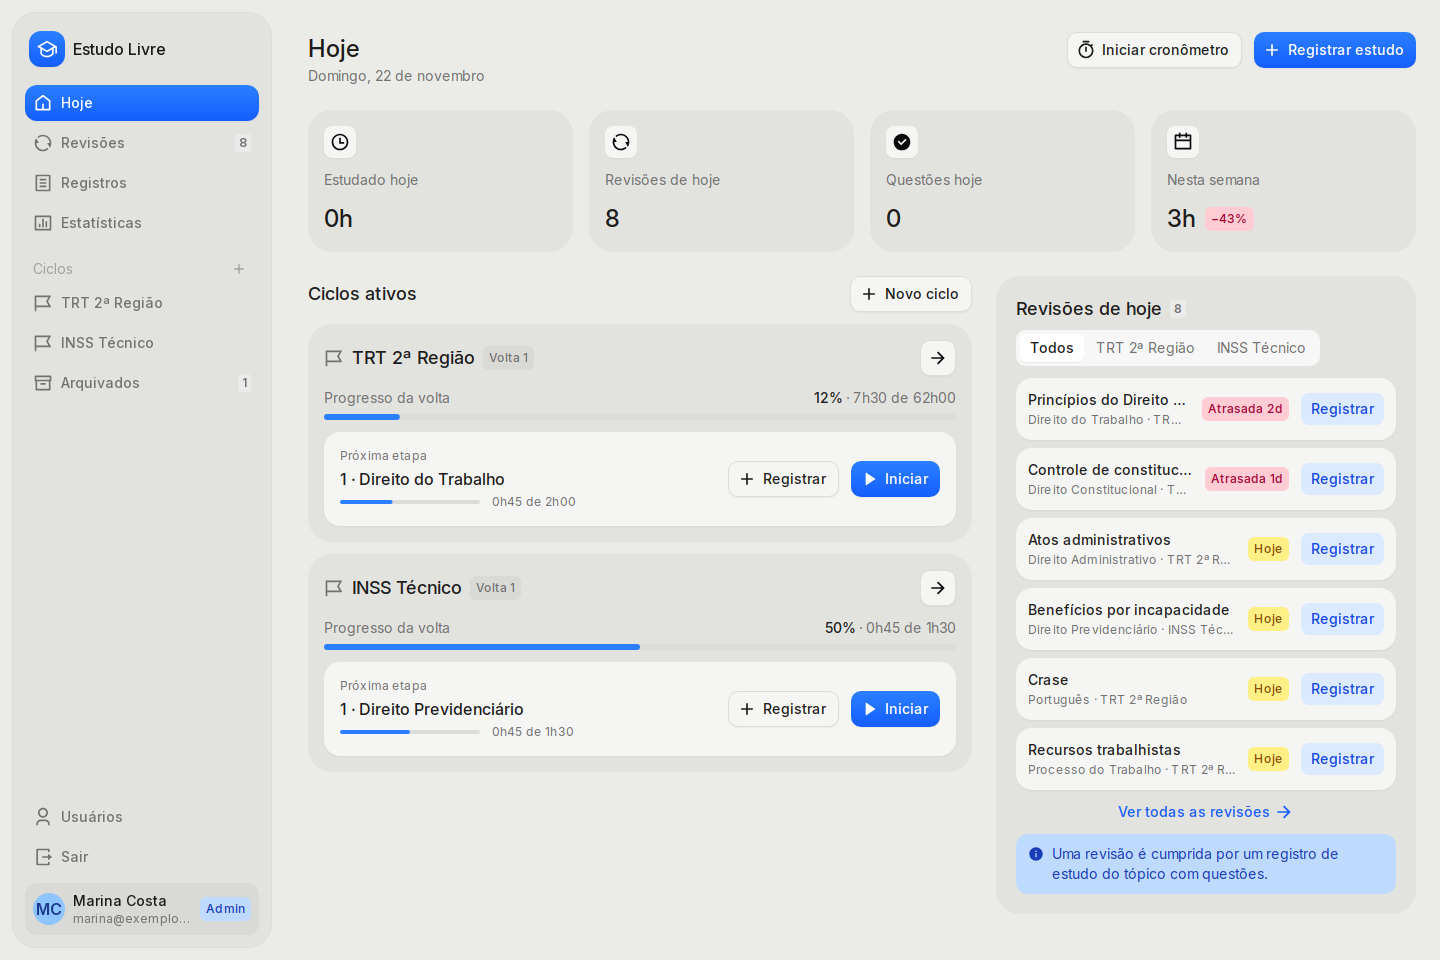
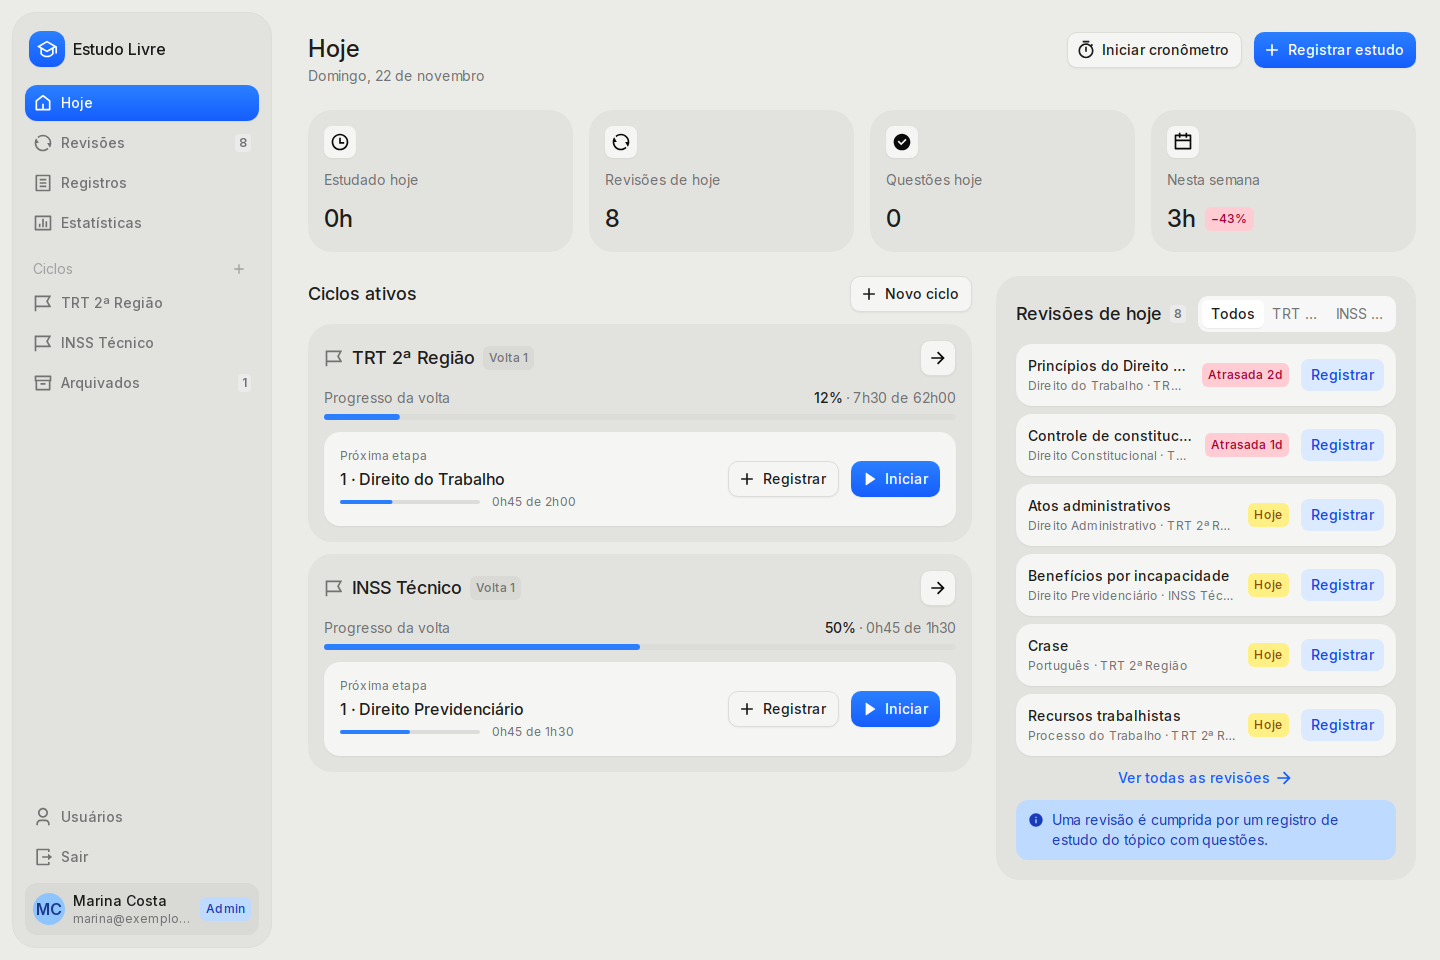
docs(revisoes): verificação, telas e visita da última execução

Changed region(s): [[0.6875, 0.3125, 0.9688, 0.9375]]

diff --git a/.specs/features/tela-de-revisoes/verification.md b/.specs/features/tela-de-revisoes/verification.md
@@ -1,0 +1,69 @@
+# Tela de revisões verification
+
+**Verdict**: PASS (achados fechados em 99f53e2; a divergência de tela, em ce1e286)
+**Proofs**: `proofs.md` at 4d6aa7e
+**Verifier**: independent sub-agent (author != verifier)
+
+## Checks
+
+| Check | Test | Holds |
+| --- | --- | --- |
+| C1 | browser captures/hoje.running.png | yes - judged by screens |
+| C2 | `lista-de-revisoes.test.ts` `conta como vencida a Revisão com próxima data hoje ou antes` | yes - -2/0/+1 com atraso exato; Ciclo ativo coberto por C41 |
+| C3 | walk - indicador na Hoje com dois Ciclos | yes - a visita registrada (`**Walked:**`, usuária Marina) cobre o estado; o valor vem de `totalVencidasGeral`, provado em C8; não refiz a visita |
+| C4 | walk - Counter do cartão ao escolher um Ciclo | yes - mesma ressalva: visita registrada; `totalVencidas` do filtro provado em C8/C30 |
+| C5 | walk - chips Atrasada 2d / Hoje no cartão | yes - visita registrada; as cores e textos do chip também estão em `formato.test.ts` `atrasada mostra os dias...` |
+| C6 | `lista-de-revisoes.test.ts` `ordena do vencimento mais antigo ao mais novo, com desempate pelo nome do Tópico` | yes - dias distintos, empate Delta/Zebra e hoje por último |
+| C7 | `lista-de-revisoes.test.ts` `o limite devolve só as mais atrasadas e mantém o total completo` | no - prova o corte com `limiteVencidas: 2`, não o 6 do cartão; `LIMITE_DO_CARTAO = 6` está em `src/app/(app)/page.tsx` sem teste, só a visita da C5 o toca |
+| C8 | `lista-de-revisoes.test.ts` `o filtro por Ciclo lista e conta só as Revisões do Ciclo` | yes - lista, `totalVencidas` e `totalVencidasGeral` com dois Ciclos |
+| C9 | `lista-de-revisoes.test.ts` `sem filtro lista as de todos os Ciclos ativos` | yes - dois Ciclos, ordem e `filtro` nulo |
+| C10 | walk - Ver todas as revisões com o mesmo filtro | yes - visita registrada; o href `/revisoes?ciclo=${filtro}` é lido em `cartao-de-revisoes.tsx` |
+| C11 | walk - aviso no cartão | yes - visita registrada; texto em constante única `AVISO_DA_REVISAO` |
+| C12 | walk - Ciclo sem vencidas no cartão | yes - visita registrada (usuária `vazia`); a condição `vencidas.length > 0` está no componente |
+| C13 | browser captures/pwa-hoje.running.png | yes - judged by screens |
+| C14 | walk - Registrar abre o modal com Matéria, Tópico e data | yes - visita registrada; sem teste automatizado da pré-seleção |
+| C15 | `cronometro.test.ts` `inicia guardando o Tópico` | yes - `topicoId` exato e Matéria |
+| C16 | `cronometro.test.ts` `parar devolve o Tópico para o registro` | yes - `toEqual` com Matéria, Tópico, duração 25 e `passouDoLimite` |
+| C17 | walk - ▶ inicia e Parar e registrar abre o modal | yes - visita registrada; a parte de dados é C16 |
+| C18 | `cronometro.test.ts` `recusa o início com Cronômetro existente, com a mensagem` | yes - ativo e pausado, mensagem exata, Cronômetro original intacto (o botão habilitado é de tela, sem check) |
+| C19 | `cronometro.test.ts` `descartar apaga sem criar Registro` | yes - Cronômetro nulo e tabela de Registros vazia |
+| C20 | `cronometro.test.ts` `excluir o Tópico mantém o Cronômetro sem Tópico` | yes - mantém Matéria e segundos, `topicoId` nulo, e o parar também devolve nulo |
+| C21 | `lista-de-revisoes.test.ts` `um Registro com questões tira a Revisão de Vencidas` | yes - verifica antes presente e depois vazia, lista e contagem |
+| C22 | `lista-de-revisoes.test.ts` `um Registro sem questões mantém a Revisão em Vencidas` | yes - Teoria sem questões mantém na lista e na contagem |
+| C23 | browser captures/revisoes.running.png | yes - judged by screens |
+| C24 | walk - subtítulo com totais e filtro | yes - visita registrada; o singular "1 vencida" do código foge de "N vencidas" (ver achado) |
+| C25 | walk - linha de Vencidas com as oito informações | yes - visita registrada |
+| C26 | walk - linha de Próximos 7 dias com chip cinza e sem ▶ | yes - visita registrada |
+| C27 | `lista-de-revisoes.test.ts` `traz última nota e acerto do Registro mais recente com nota` | yes - três Registros, o mais novo sem nota é ignorado, "Errei" e 40 exatos |
+| C28 | `lista-de-revisoes.test.ts` `traz nulos sem Registro com nota` | yes - nulos em vencida e em próxima, com Registro sem nota |
+| C29 | `lista-de-revisoes.test.ts` `ordena do vencimento mais antigo ao mais novo, com desempate pelo nome do Tópico` | no - a ordem só é afirmada em `vencidas`; `proximas` nunca tem dois itens no mesmo dia nem fora de ordem de inserção |
+| C30 | `lista-de-revisoes.test.ts` `o filtro vale nas duas seções e nos totais` | yes - um item por seção do Ciclo escolhido e dois totais exatos |
+| C31 | walk - aviso na página | yes - visita registrada; mesmo componente `AvisoDaRevisao` |
+| C32 | `lista-de-revisoes.test.ts` `um Ciclo desconhecido, de outro Usuário ou arquivado vale Todos` | yes - cinco entradas (inexistente, outro Usuário, arquivado, vazio, nulo) com `filtro` nulo e lista de Todos |
+| C33 | walk - Ciclo sem Revisões na página | yes - visita registrada (usuária `vazia`) |
+| C34 | `lista-de-revisoes.test.ts` `sem Ciclo ativo não há Revisão` | yes - `toEqual` do objeto inteiro e contagem zero |
+| C35 | walk - 390px sem rolagem horizontal | yes - visita registrada; sem medição automatizada |
+| C36 | browser captures/revisoes.running.png | yes - judged by screens |
+| C37 | walk - Counter no item da Sidebar | yes - visita registrada; o valor é `contarRevisoesVencidas`, provado em C2/C41 |
+| C38 | walk - item sem Counter | yes - visita registrada (usuária `vazia`) |
+| C39 | browser captures/pwa-hoje.running.png | yes - judged by screens |
+| C40 | walk - aria-current em Sidebar e aba | yes - visita registrada |
+| C41 | `lista-de-revisoes.test.ts` `as Revisões do Ciclo arquivado somem da lista e do total` | yes - vencida e próxima sumem, filtro de Ciclos e as duas contagens |
+| C42 | `lista-de-revisoes.test.ts` `reativar devolve as Revisões com as mesmas datas` | yes - `toEqual` do resultado antes e depois, mais os dias esperados |
+| C43 | `lista-de-revisoes.test.ts` `arquivar e reativar não alteram os Cartões` | yes - `select *` igual após arquivar e após reativar |
+| C44 | `lista-de-revisoes.test.ts` `reativado depois da data, a Revisão volta vencida com o atraso até hoje` | yes - atraso exato 7 e `proximas` vazia (relógio avançado, não reativação real) |
+| C45 | `lista-de-revisoes.test.ts` `Cartão sem data não aparece nem conta` | yes - lista, `proximas`, total geral e contagem |
+| C46 | `lista-de-revisoes.test.ts` `excluir o Tópico tira a Revisão` | yes - sobra só o outro Tópico, lista e contagem |
+| C47 | `lista-de-revisoes.test.ts` `classifica pelo dia de Brasília, não pelo de UTC` | yes - 23:00 e 00:30 de Brasília em lados opostos, dia e atraso exatos, e a contagem |
+| C48 | `lista-de-revisoes.test.ts` `Revisões de outro Usuário não aparecem` | yes - lista da Ana e contagem da Bia (a lista da Bia não é afirmada) |
+| C49 | `lista-de-revisoes.test.ts` `os próximos 7 dias vão de amanhã a hoje mais 7, inclusive` | yes - hoje, +1, +7 e +8 com `diasDeAtraso` exatos |
+
+## Findings
+
+| Finding | Evidence | Fix | Closed |
+| --- | --- | --- | --- |
+| C29 não prova a ordem de "Próximos 7 dias" | `tests/lista-de-revisoes.test.ts` `ordena do vencimento mais antigo...` só afirma `lista.vencidas`; nenhum teste tem duas próximas no mesmo dia ou fora da ordem de inserção, então trocar o `orderBy` das próximas não falha nada | afirmar a ordem e o desempate por nome também em `proximas` (ex.: três Tópicos em +3, +3 e +2) | 99f53e2 - C29 (o teste de ordem agora afirma `proximas` com empate) |
+| C7 não prova o limite 6 do cartão | o teste usa `limiteVencidas: 2`; `LIMITE_DO_CARTAO = 6` está em `src/app/(app)/page.tsx` e nada o testa, então mudar para 5 ou 8 passa verde | extrair a constante para o caso de uso ou testar com 7 vencidas e o limite exportado; a visita só mostra 8 vencidas com 6 linhas se o filtro for Todos | 99f53e2 - C7 (novo teste com 8 vencidas e `LIMITE_DO_CARTAO_DE_REVISOES`, que afirma 6) |
+| Subtítulo no singular fora do spec | `src/app/(app)/revisoes/page.tsx` `vencidas(n)` devolve "1 vencida"; o AC 2 e a captura fixam "N vencidas" e a seção `Differences from the source` não lista o singular | ou registrar a diferença em `Differences from the source` com Confirmed, ou usar sempre "vencidas" | 99f53e2 - o subtítulo mostra sempre "N vencidas" (C24) |
+
+Sondas descartáveis no HEAD (rodaram verdes, arquivo removido): janela de 7 dias com dia 7 às 23:30 e 00:00 de Brasília e dia 8 às 00:30 cruzando o ano; atraso cruzando o mês; 60 Revisões em dois Ciclos com limite 6 e desempate (Tópicos inseridos em ordem inversa); filtro por Ciclo ativo sem Cartões; filtro por Ciclo de outro Usuário com os totais do Usuário. Nenhuma regra quebrou. Contra as capturas: sem contradição de rótulo nem controle sem critério (as cores das notas e os cabeçalhos da tabela não têm critério, mas não contradizem nada).

diff --git a/.specs/features/tela-de-revisoes/proofs.md b/.specs/features/tela-de-revisoes/proofs.md
@@ -1,13 +1,13 @@
 # tela-de-revisoes proofs
 
-**HEAD**: f9eb84d
+**HEAD**: ce1e286
 **Tree**: clean
 **Shell**: /bin/sh
-**Result**: 46 pass, 5 fail
+**Result**: 50 pass, 1 fail
 
 | Check | Proof | Result |
 | --- | --- | --- |
-| C1 | `browser captures/hoje.running.png` | **not judged** (screens.md) |
+| C1 | `browser captures/hoje.running.png` | **diverges** (screens.md) |
 | C2 | `run unit / ✓ tests/lista-de-revisoes.test.ts > revisões vencidas > conta como vencida a Revisão com próxima da` | pass |
 | C3 | `walk - na Hoje, o indicador "Revisões de hoje" mostra o total de vencidas dos dois Ciclos e nenhum chip` | pass (Walked) |
 | C4 | `walk - ao escolher um Ciclo no cartão, o Counter passa ao número de vencidas dele` | pass (Walked) |
@@ -19,7 +19,7 @@
 | C10 | `walk - com um Ciclo escolhido no cartão, "Ver todas as revisões" abre /revisoes?ciclo=<id> com o mesmo Ciclo m` | pass (Walked) |
 | C11 | `walk - o cartão da Hoje mostra o aviso com esse texto` | pass (Walked) |
 | C12 | `walk - com um Ciclo sem vencidas escolhido, o cartão mostra "Nenhuma revisão vencida." e não mostra o link` | pass (Walked) |
-| C13 | `browser captures/pwa-hoje.running.png` | **not judged** (screens.md) |
+| C13 | `browser captures/pwa-hoje.running.png` | pass |
 | C14 | `walk - "Registrar" numa Revisão abre o modal "Registrar estudo" com a Matéria, o Tópico e a data de hoje` | pass (Walked) |
 | C15 | `run unit / ✓ tests/cronometro.test.ts > Tópico do Cronômetro > inicia guardando o Tópico` | pass |
 | C16 | `run unit / ✓ tests/cronometro.test.ts > Tópico do Cronômetro > parar devolve o Tópico para o registro` | pass |
@@ -29,7 +29,7 @@
 | C20 | `run unit / ✓ tests/cronometro.test.ts > Tópico do Cronômetro > excluir o Tópico mantém o Cronômetro sem Tópico` | pass |
 | C21 | `run unit / ✓ tests/lista-de-revisoes.test.ts > cumprir a Revisão > um Registro com questões tira a Revisão de ` | pass |
 | C22 | `run unit / ✓ tests/lista-de-revisoes.test.ts > cumprir a Revisão > um Registro sem questões mantém a Revisão e` | pass |
-| C23 | `browser captures/revisoes.running.png` | **not judged** (screens.md) |
+| C23 | `browser captures/revisoes.running.png` | pass |
 | C24 | `walk - em /revisoes o subtítulo mostra os totais e muda ao escolher um Ciclo` | pass (Walked) |
 | C25 | `walk - uma linha de Vencidas mostra as oito informações` | pass (Walked) |
 | C26 | `walk - uma linha de Próximos 7 dias tem o chip cinza e nenhum ▶` | pass (Walked) |
@@ -42,10 +42,10 @@
 | C33 | `walk - com um Ciclo sem Revisões escolhido, a página mostra "Nenhuma revisão vencida." e não mostra "Próximos ` | pass (Walked) |
 | C34 | `run unit / ✓ tests/lista-de-revisoes.test.ts > revisões vencidas > sem Ciclo ativo não há Revisão` | pass |
 | C35 | `walk - em 390px /revisoes mostra cada Revisão em linha, sem rolagem horizontal` | pass (Walked) |
-| C36 | `browser captures/revisoes.running.png` | **not judged** (screens.md) |
+| C36 | `browser captures/revisoes.running.png` | pass |
 | C37 | `walk - com Revisões vencidas, o item "Revisões" da Sidebar mostra o Counter com o total` | pass (Walked) |
 | C38 | `walk - sem Revisões vencidas, o item "Revisões" da Sidebar não mostra Counter` | pass (Walked) |
-| C39 | `browser captures/pwa-hoje.running.png` | **not judged** (screens.md) |
+| C39 | `browser captures/pwa-hoje.running.png` | pass |
 | C40 | `walk - em /revisoes o item da Sidebar e a aba têm aria-current="page"` | pass (Walked) |
 | C41 | `run unit / ✓ tests/lista-de-revisoes.test.ts > Ciclo arquivado > as Revisões do Ciclo arquivado somem da lista` | pass |
 | C42 | `run unit / ✓ tests/lista-de-revisoes.test.ts > Ciclo arquivado > reativar devolve as Revisões com as mesmas da` | pass |
@@ -66,17 +66,17 @@
 ```
 
 stderr | tests/conta.test.ts > conta e instância > com o cadastro desligado, não é possível criar conta
-2026-11-22T15:12:58.314Z WARN [Better Auth]: [better-auth] Base URL is not set. Set the baseURL option or BETTER_AUTH_URL env, or use a dynamic baseURL with allowedHosts for multi-host setups. Without it the origin is derived from the incoming request, and callbacks and redirects may not work correctly.
+2026-11-22T15:22:11.707Z WARN [Better Auth]: [better-auth] Base URL is not set. Set the baseURL option or BETTER_AUTH_URL env, or use a dynamic baseURL with allowedHosts for multi-host setups. Without it the origin is derived from the incoming request, and callbacks and redirects may not work correctly.
 
 stderr | tests/conta.test.ts > conta e instância > com o cadastro desligado, não é possível criar conta
-2026-11-22T15:12:58.400Z WARN [Better Auth]: [better-auth] Base URL is not set. Set the baseURL option or BETTER_AUTH_URL env, or use a dynamic baseURL with allowedHosts for multi-host setups. Without it the origin is derived from the incoming request, and callbacks and redirects may not work correctly.
+2026-11-22T15:22:11.793Z WARN [Better Auth]: [better-auth] Base URL is not set. Set the baseURL option or BETTER_AUTH_URL env, or use a dynamic baseURL with allowedHosts for multi-host setups. Without it the origin is derived from the incoming request, and callbacks and redirects may not work correctly.
 
 stderr | tests/conta.test.ts > conta e instância > com o cadastro desligado, o primeiro Usuário ainda pode se cadastrar
-2026-11-22T15:12:58.511Z WARN [Better Auth]: [better-auth] Base URL is not set. Set the baseURL option or BETTER_AUTH_URL env, or use a dynamic baseURL with allowedHosts for multi-host setups. Without it the origin is derived from the incoming request, and callbacks and redirects may not work correctly.
+2026-11-22T15:22:11.903Z WARN [Better Auth]: [better-auth] Base URL is not set. Set the baseURL option or BETTER_AUTH_URL env, or use a dynamic baseURL with allowedHosts for multi-host setups. Without it the origin is derived from the incoming request, and callbacks and redirects may not work correctly.
 
 stderr | tests/volta-do-ciclo.test.ts > progresso na tela do Ciclo > cada Etapa traz o feito, e o Ciclo traz a Volta, os totais e as Matérias com progresso
-2026-11-22T15:12:59.465Z WARN [Better Auth]: [better-auth] Base URL is not set. Set the baseURL option or BETTER_AUTH_URL env, or use a dynamic baseURL with allowedHosts for multi-host setups. Without it the origin is derived from the incoming request, and callbacks and redirects may not work correctly.
+2026-11-22T15:22:12.842Z WARN [Better Auth]: [better-auth] Base URL is not set. Set the baseURL option or BETTER_AUTH_URL env, or use a dynamic baseURL with allowedHosts for multi-host setups. Without it the origin is derived from the incoming request, and callbacks and redirects may not work correctly.
 
 stderr | tests/volta-do-ciclo.test.ts > progresso na tela do Ciclo > depois de fechar a Volta, mostra a Volta 2 com o instante em que abriu e soma as horas extras
-2026-11-22T15:12:59.667Z WARN [Better Auth]: [better-auth] Base URL is not set. Set the baseURL option or BETTER_AUTH_URL env, or use a dynamic baseURL with allowedHosts for multi-host setups. Without it the origin is derived from the incoming request, and callbacks and redirects may not work correctly.
+2026-11-22T15:22:13.039Z WARN [Better Auth]: [better-auth] Base URL is not set. Set the baseURL option or BETTER_AUTH_URL env, or use a dynamic baseURL with allowedHosts for multi-host setups. Without it the origin is derived from the incoming request, and callbacks and redirects may not work correctly.
 ```

diff --git a/.specs/features/tela-de-revisoes/screens.md b/.specs/features/tela-de-revisoes/screens.md
@@ -1,0 +1,59 @@
+# Tela de revisões screens
+
+**Verifier**: independent sub-agent (author != verifier)
+**Round**: 2
+**Note**: passada extra autorizada pelo Usuário depois da rodada 2
+
+Pictures taken by the verifier at the capture size (1x, pt-BR, America/Sao_Paulo), signed in as `marina@exemplo.com`. The seeded database differs from the capture's data (other names, dates, quantities, no running Cronômetro); that is not a divergence.
+
+| Screen | Compared with | Verdict | Finding |
+| --- | --- | --- | --- |
+| `captures/hoje.running.png` | `captures/hoje.png` | matches | 0 rows differ |
+| `captures/revisoes.running.png` | `captures/revisoes.png` | matches | 0 rows differ |
+| `captures/pwa-hoje.running.png` | `captures/pwa-hoje.png` | matches | 0 rows differ |
+
+### `captures/hoje.running.png`
+
+| Element | Result | Picture draws |
+| --- | --- | --- |
+| Sidebar: logo "Estudo Livre", Hoje (selected), Revisões with Counter, Registros, Estatísticas | same | |
+| Sidebar: "Ciclos" with "+", two Ciclos, Arquivados with Counter | same | |
+| Sidebar: Cronômetro card (Rodando, 00:42:18, Pausar, Parar) | same | not drawn: no Cronômetro exists in this state (another state) |
+| Sidebar footer: Usuários, Sair, user card with Admin chip | same | |
+| Header: title "Hoje", date subtitle, "Iniciar cronômetro" and "Registrar estudo" on the right | same | |
+| Four indicators in a row: Estudado hoje, Revisões de hoje (2nd), Questões hoje, Nesta semana | same | Revisões de hoje 8 with no chip |
+| "Ciclos ativos" heading with "Novo ciclo" button | same | |
+| Ciclo cards: name, Volta chip, arrow button, Progresso da volta bar, Próxima etapa with Registrar and Iniciar | same | other data, no "extra" chip |
+| Right column card "Revisões de hoje" with Counter, to the right of Ciclos ativos | same | |
+| Card header: title and Counter with the filter Todos / TRT / INSS on the same row, to the right of the title | same | extra pass: filter on the title row and inside the card's right edge; Ciclo names cut with ellipsis ("TRT ...", "INSS ...") by the Usuário's decision |
+| Revisão rows: Tópico, "Matéria · Ciclo", chip (Atrasada Nd rosa / Hoje amarelo), Registrar | same | 6 rows; subtitle truncated more |
+| Link "Ver todas as revisões" with arrow, centered | same | |
+| Info notice "Uma revisão é cumprida por um registro de estudo do tópico com questões." | same | |
+
+### `captures/revisoes.running.png`
+
+| Element | Result | Picture draws |
+| --- | --- | --- |
+| Sidebar with "Revisões" selected, between Hoje and Registros, Counter 8 | same | |
+| Sidebar: Cronômetro card | same | not drawn: no Cronômetro in this state |
+| Header: title "Revisões", subtitle "N vencidas · M nos próximos 7 dias" | same | "8 vencidas · 4 nos próximos 7 dias" (data) |
+| Filter at top right: Todos os ciclos / TRT / INSS | same | |
+| Table card with header row: Tópico, Matéria, Ciclo, Vencimento, Última nota, Acerto | same | |
+| Section "Vencidas" with Counter | same | |
+| Vencidas rows: Tópico, Matéria, Ciclo, chip, nota chip, acerto, Registrar (blue) and ▶ | same | "—" in both columns for the Tópico without nota; ▶ icon larger/darker (note) |
+| Section "Próximos 7 dias" with Counter | same | 4 rows instead of 5 (data) |
+| Próximos rows: chip Amanhã / dd/mm gray, nota, acerto, neutral Registrar only | same | |
+| Notice "Uma revisão é cumprida por um registro de estudo do tópico com questões." | same | listed in Differences from the source (capture has none) |
+
+### `captures/pwa-hoje.running.png`
+
+| Element | Result | Picture draws |
+| --- | --- | --- |
+| Header: app icon, title "Hoje", avatar MC | same | |
+| Date subtitle | same | |
+| Cronômetro card (Rodando, time, Pausar, Parar e registrar) | same | not drawn: no Cronômetro in this state |
+| Indicators in the order Hoje, Revisões, third | same | third is "Questões" (listed in Differences from the source) |
+| No "Revisões de hoje" card | same | |
+| "Próximas etapas" with "N ciclos" | same | |
+| Ciclo cards with progress, Volta, Próxima etapa row and ▶ | same | |
+| Tab bar: Hoje (selected), Revisões, central "+", Registros, Estatísticas | same | |

diff --git a/.specs/features/tela-de-revisoes/tasks.md b/.specs/features/tela-de-revisoes/tasks.md
@@ -331,7 +331,7 @@ Proof: walk - no cartão, uma Revisão atrasada mostra o chip rosa "Atrasada 2d"
 Proof: run unit | ✓ tests/lista-de-revisoes.test.ts > revisões vencidas > ordena do vencimento mais antigo ao mais novo, com desempate pelo nome do Tópico
 
 **C7** - O cartão pede no máximo as 6 Revisões mais atrasadas e o total segue completo (REV-01, AC 6)
-Proof: run unit | ✓ tests/lista-de-revisoes.test.ts > revisões vencidas > o limite devolve só as mais atrasadas e mantém o total completo
+Proof: run unit | ✓ tests/lista-de-revisoes.test.ts > revisões vencidas > o limite devolve só as mais atrasadas e mantém o total completo, no limite do cartão
 
 **C8** - Escolher um Ciclo lista e conta só as vencidas dele (REV-01, AC 7)
 Proof: run unit | ✓ tests/lista-de-revisoes.test.ts > revisões vencidas > o filtro por Ciclo lista e conta só as Revisões do Ciclo
@@ -466,7 +466,7 @@ Proof: run unit | ✓ tests/lista-de-revisoes.test.ts > revisões vencidas > os 
 The feature's live state, written as it happens - a compaction gives no warning.
 
 **Settled mid-build:** none
-**Dispatched:** none
+**Dispatched:** Verifier e screens sub-agent (round 1) em `HEAD` 4d6aa7e, ambos `returned`; achados fechados em 99f53e2. Screens sub-agent (round 2, só a linha de `hoje.running.png` que diferia) em `HEAD` 99f53e2, `returned`: `hoje.running.png` ainda diverge em 1 linha (o filtro do cartão fica cortado à direita com os nomes longos dos Ciclos); sem terceira rodada, foi ao Usuário, que escolheu abreviar os segmentos do filtro (user: "Abreviar os segmentos (Recommended)", com uma rodada extra de telas). Correção em ce1e286; screens sub-agent (rodada extra, só `hoje.running.png`) em `HEAD` ce1e286; `returned`: `hoje.running.png` passou a `matches`.
 **Walked:** Acesso: `http://localhost:3100` (`next start`) com o Postgres de desenvolvimento `estudo-livre-dev-pg` (porta 5432, banco `estudo`, migrado); entrar com `marina@exemplo.com` / `senha-de-teste-123` (dados do Figma: Ciclos "TRT 2ª Região" e "INSS Técnico" com 8 vencidas e 4 próximas, e o "Concurso antigo" arquivado) e `vazia@exemplo.com` / `senha-de-teste-123` (um Ciclo sem Revisões). Os estados das capturas: Hoje 1440px em `/` (`hoje.running.png`), página em `/revisoes` 1440px (`revisoes.running.png`), Hoje 390px em `/` (`pwa-hoje.running.png`), todas com a Marina.
 - Hoje, Revisões vencidas: o indicador mostrou "Revisões de hoje 8" sem chip; o cartão mostrou o Counter 8, o filtro Todos / TRT 2ª Região / INSS Técnico, 6 linhas (as mais atrasadas, com "Atrasada 2d", "Atrasada 1d" e "Hoje"), "Ver todas as revisões" e o aviso azul. Ao escolher "TRT 2ª Região" o endereço passou a `/?ciclo=<id>` e o Counter e as linhas passaram a 6; "Ver todas as revisões" abriu `/revisoes?ciclo=<id>` com o mesmo Ciclo marcado e o subtítulo "6 vencidas · 4 nos próximos 7 dias". Com a Vera (sem Revisões) o cartão mostrou "Nenhuma revisão vencida." sem o link e com o aviso.
 - Registrar a partir de uma Revisão: "Registrar Crase" no cartão abriu o modal "Registrar estudo" com a Matéria de Português, o conteúdo em modo Tópico com o Tópico "Crase" escolhido e a data de hoje.
